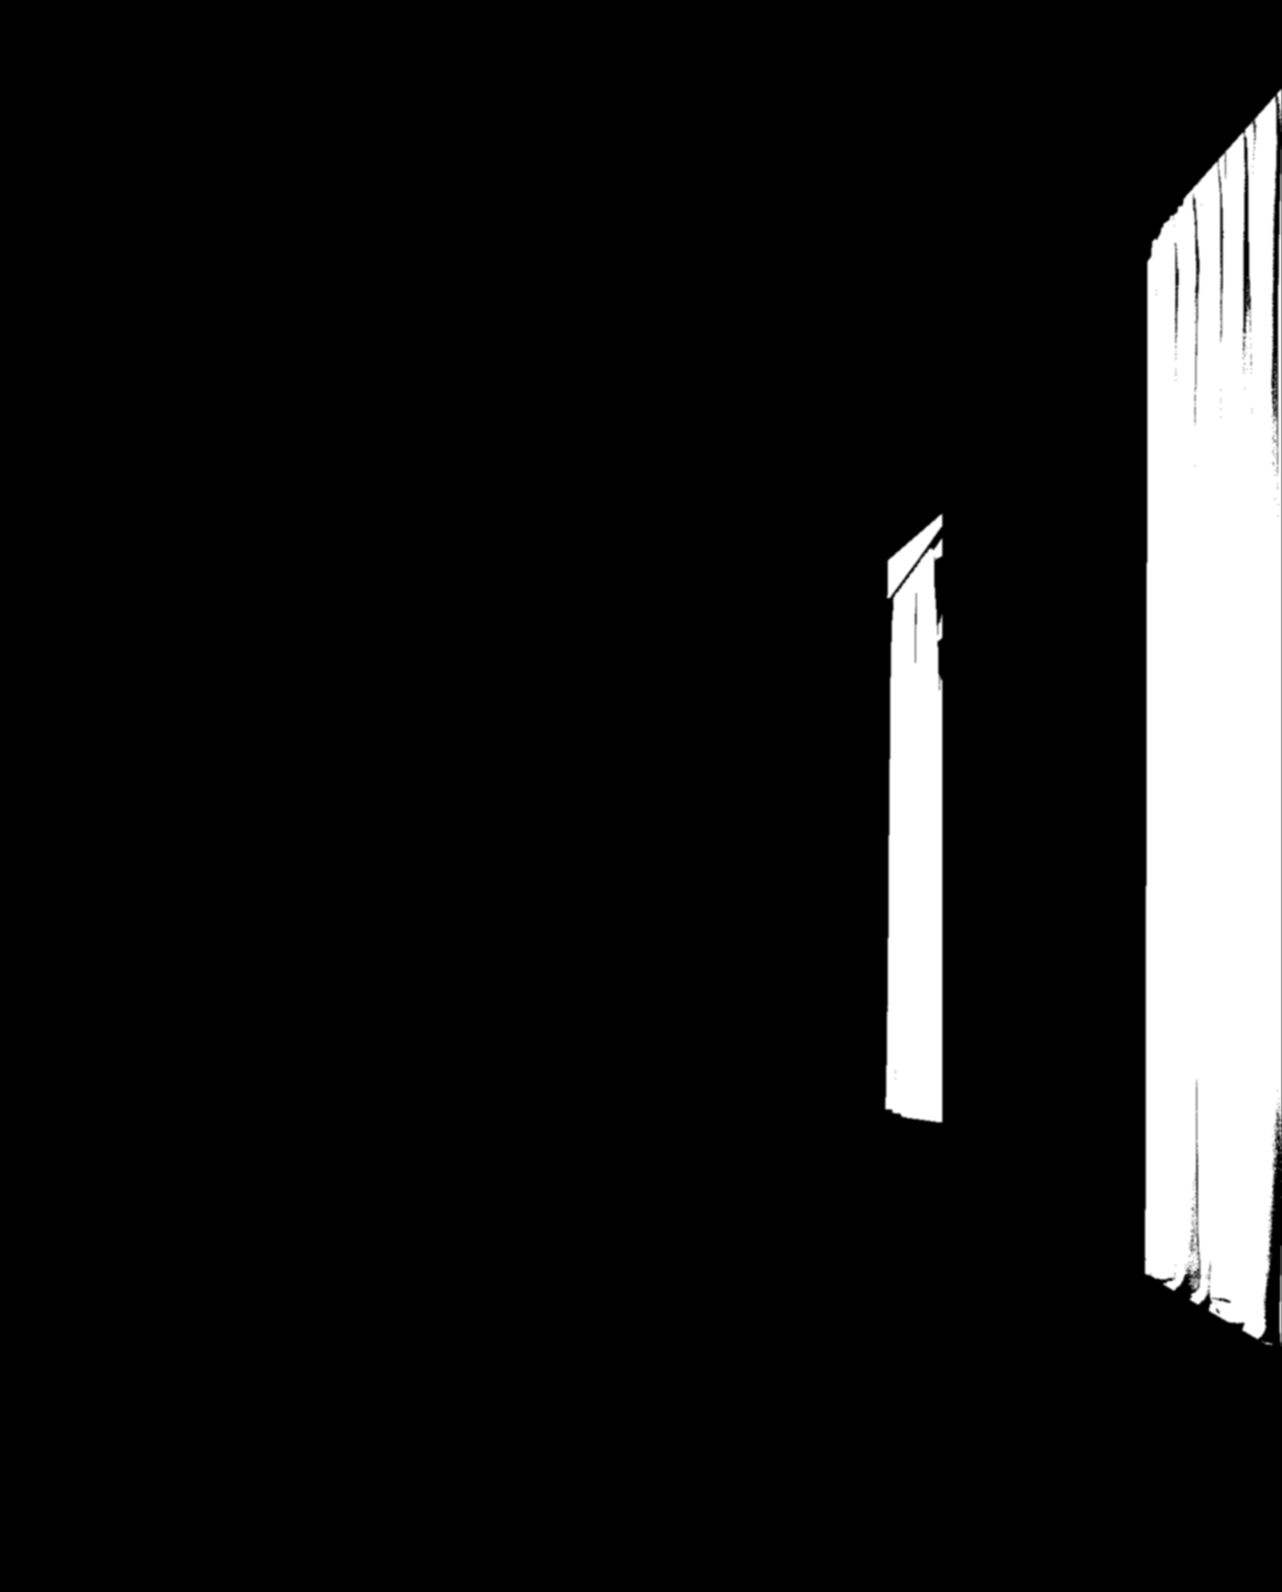
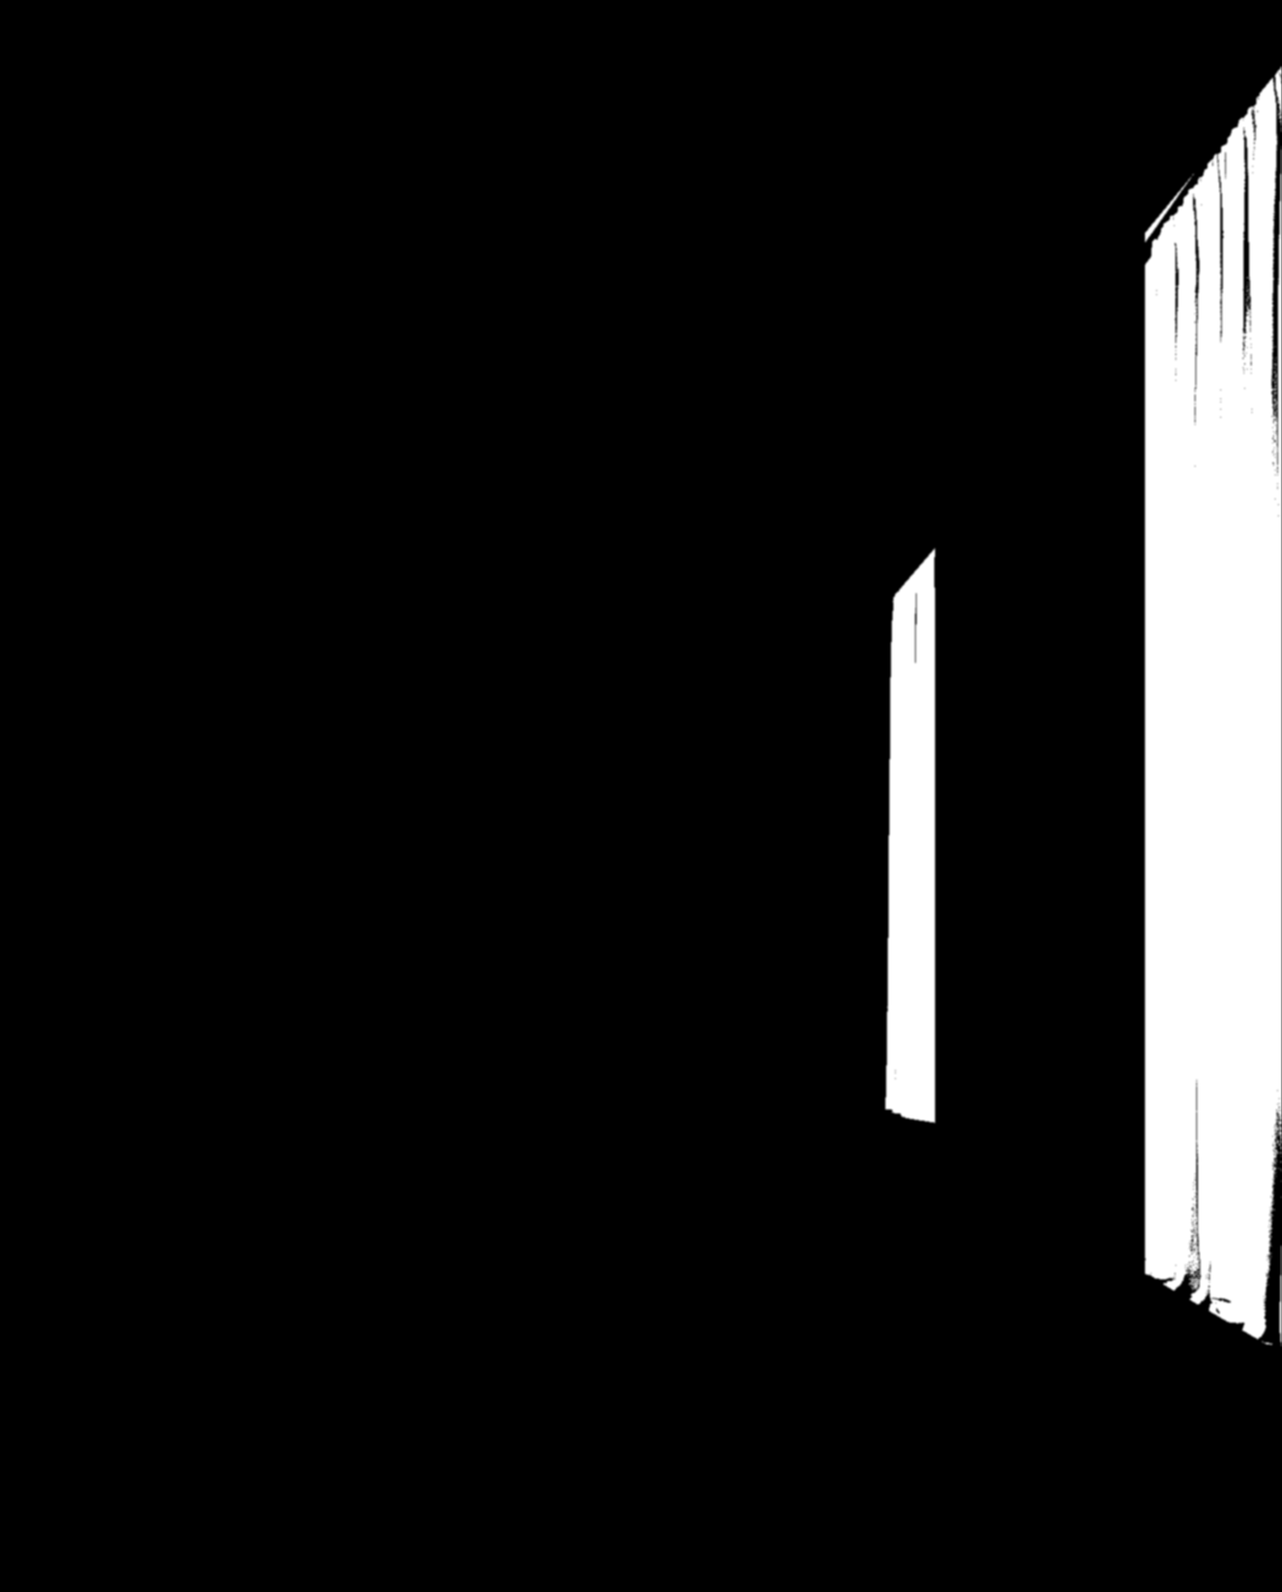
Master bedroom: gardinen följer skenan, inget tyg ovanför skenan

Changed region(s): [[0.875, 0.1249, 0.9062, 0.5619], [0.6875, 0.3122, 0.75, 0.718], [0.9375, 0.0312, 1.0, 0.1249]]

diff --git a/index.html b/index.html
@@ -350,7 +350,7 @@ p.allwin{margin:4px 0 0;font-size:14px}
 <div id="zoom" class="zoom" hidden role="dialog" aria-label="Förstorad bild"><button id="zoom-close" class="btn">Stäng</button><img alt="Förstorad bild"></div>
 
 <script>
-const DATA = {"verona":{"name":"Verona","desc":"Linnets levande yta. Flamskyddad, 295 cm","def":"31","myth":"Ett tyg med linnets lite ojämna, levande yta och ett mjukt fall. Det är gardinen vi föreslår i husens stora rum.","colors":[{"code":"01","name":"Pigeon","img":"img/verona-01.jpg","hex":"#9b948c","lab":[62,1.1,5.2]},{"code":"02","name":"Tornado","img":"img/verona-02.jpg","hex":"#38393e","lab":[24,0.8,-3.2]},{"code":"03","name":"Brass","img":"img/verona-03.jpg","hex":"#af9056","lab":[61,4.6,34.8]},{"code":"04","name":"Chalk","img":"img/verona-04.jpg","hex":"#eae9e7","lab":[92,0.1,1]},{"code":"05","name":"Signet","img":"img/verona-05.jpg","hex":"#c5beb4","lab":[77,0.9,5.6]},{"code":"06","name":"Cinder","img":"img/verona-06.jpg","hex":"#c9c9bf","lab":[81,-1.8,4.9]},{"code":"07","name":"Nimbus","img":"img/verona-07.jpg","hex":"#989896","lab":[63,-0.4,1]},{"code":"08","name":"Dew","img":"img/verona-08.jpg","hex":"#b1b8b1","lab":[74,-3.7,2.6]},{"code":"09","name":"Caspian","img":"img/verona-09.jpg","hex":"#8e9ca5","lab":[64,-3.3,-6.4]},{"code":"10","name":"Harbour","img":"img/verona-10.jpg","hex":"#394a5e","lab":[31,-0.9,-14]},{"code":"11","name":"Raven","img":"img/verona-11.jpg","hex":"#2e3339","lab":[21,-0.7,-4.5]},{"code":"12","name":"Pacific","img":"img/verona-12.jpg","hex":"#3c4c5b","lab":[31,-2.2,-10.9]},{"code":"13","name":"Niagara","img":"img/verona-13.jpg","hex":"#215d6b","lab":[36,-14.5,-13.4]},{"code":"14","name":"Tide","img":"img/verona-14.jpg","hex":"#8c9894","lab":[62,-5,0.7]},{"code":"15","name":"Verdigris","img":"img/verona-15.jpg","hex":"#8a9f96","lab":[64,-9.2,2.1]},{"code":"16","name":"Aquatic","img":"img/verona-16.jpg","hex":"#547576","lab":[47,-11.5,-4.5]},{"code":"17","name":"Patina","img":"img/verona-17.jpg","hex":"#98a693","lab":[67,-9.2,8.6]},{"code":"18","name":"Breeze","img":"img/verona-18.jpg","hex":"#b8b5a2","lab":[74,-2.3,10.1]},{"code":"19","name":"Laurel","img":"img/verona-19.jpg","hex":"#a6a384","lab":[67,-4.1,16.5]},{"code":"20","name":"Mimosa","img":"img/verona-20.jpg","hex":"#d8c68c","lab":[80,-2.1,31.5]},{"code":"21","name":"Jute","img":"img/verona-21.jpg","hex":"#d2bc94","lab":[77,1.6,23.2]},{"code":"22","name":"Alabaster","img":"img/verona-22.jpg","hex":"#d8d4cb","lab":[85,-0.2,4.9]},{"code":"23","name":"Paper","img":"img/verona-23.jpg","hex":"#d1cbbf","lab":[82,0,6.8]},{"code":"25","name":"Fudge","img":"img/verona-25.jpg","hex":"#b59f8b","lab":[67,4.6,13.3]},{"code":"26","name":"Cognac","img":"img/verona-26.jpg","hex":"#965b43","lab":[45,21.9,24.1]},{"code":"27","name":"Anise","img":"img/verona-27.jpg","hex":"#a43f35","lab":[41,41,27.7]},{"code":"29","name":"Mink","img":"img/verona-29.jpg","hex":"#a49183","lab":[61,4.7,10]},{"code":"30","name":"Malt","img":"img/verona-30.jpg","hex":"#a79b91","lab":[65,2.4,7.7]},{"code":"31","name":"Tofu","img":"img/verona-31.jpg","hex":"#d0c6bb","lab":[80,1.6,6.9]},{"code":"32","name":"Driftwood","img":"img/verona-32.jpg","hex":"#bcb3a6","lab":[73,0.9,7.9]},{"code":"33","name":"Chrome","img":"img/verona-33.jpg","hex":"#aaa29e","lab":[67,2.2,2.7]},{"code":"34","name":"Carbon","img":"img/verona-34.jpg","hex":"#52565a","lab":[36,-0.9,-2.5]},{"code":"35","name":"Koala","img":"img/verona-35.jpg","hex":"#7f7774","lab":[51,2.5,2.7]},{"code":"36","name":"Briar","img":"img/verona-36.jpg","hex":"#d8c1bf","lab":[80,7.3,4.2]},{"code":"37","name":"Moorland","img":"img/verona-37.jpg","hex":"#9b8c8f","lab":[60,6.2,0.4]}]},"carina":{"name":"Carina","desc":"Mörkläggande, för sovrummen. 280 cm","def":"02","myth":"Mörklägger helt, utan foder: det är tyget självt som stänger ute ljuset.","colors":[{"code":"01","name":"Camelia","img":"img/carina-01.jpg","hex":"#e0dfd9","lab":[89,-0.4,3.1]},{"code":"02","name":"Parchment","img":"img/carina-02.jpg","hex":"#d1ccb8","lab":[82,-1.6,10.2]},{"code":"03","name":"Cashew","img":"img/carina-03.jpg","hex":"#c9c6b3","lab":[80,-2.3,9.9]},{"code":"04","name":"Driftwood","img":"img/carina-04.jpg","hex":"#a8a38c","lab":[67,-1.8,12.5]},{"code":"05","name":"Silt","img":"img/carina-05.jpg","hex":"#7a7a6d","lab":[51,-2.3,7]},{"code":"06","name":"Pigeon","img":"img/carina-06.jpg","hex":"#c0c0b4","lab":[78,-2.2,6.2]},{"code":"07","name":"Agate","img":"img/carina-07.jpg","hex":"#b1b6af","lab":[74,-3.4,3.1]},{"code":"08","name":"Cinder","img":"img/carina-08.jpg","hex":"#d5d4c9","lab":[85,-1.4,5.4]},{"code":"09","name":"Aluminium","img":"img/carina-09.jpg","hex":"#c3c4be","lab":[79,-1.4,2.8]},{"code":"10","name":"Nickel","img":"img/carina-10.jpg","hex":"#a3a097","lab":[66,-0.4,4.8]},{"code":"11","name":"Alpine","img":"img/carina-11.jpg","hex":"#b3bcad","lab":[75,-5.6,6.6]}]},"laurie":{"name":"Laurie","desc":"Skir innergardin. Flamskyddad, 297 cm","def":"14","myth":"Skir innergardin på en egen skena närmast glaset. Släpper in dagsljuset men håller blickarna ute.","colors":[{"code":"13","name":"White","img":"img/laurie-13.jpg","hex":"#eeecf7","lab":[94,2.6,-5]},{"code":"09","name":"Aluminium","img":"img/laurie-09.jpg","hex":"#c8c4c4","lab":[79,1.4,0.5]},{"code":"15","name":"River","img":"img/laurie-15.jpg","hex":"#bec3c7","lab":[78,-1,-2.6]},{"code":"14","name":"Chalk","img":"img/laurie-14.jpg","hex":"#ece6e8","lab":[92,2.4,-0.2]},{"code":"06","name":"Haze","img":"img/laurie-06.jpg","hex":"#86918f","lab":[59,-4.3,0.1]},{"code":"12","name":"Hydro","img":"img/laurie-12.jpg","hex":"#637972","lab":[49,-9.5,1.2]},{"code":"11","name":"Ink","img":"img/laurie-11.jpg","hex":"#5c646b","lab":[42,-1.5,-5.2]},{"code":"10","name":"Fjord","img":"img/laurie-10.jpg","hex":"#99a8b3","lab":[68,-2.6,-7.7]},{"code":"05","name":"Droplet","img":"img/laurie-05.jpg","hex":"#b9bec5","lab":[77,-0.1,-4.3]},{"code":"01","name":"Silver","img":"img/laurie-01.jpg","hex":"#e2dcde","lab":[88,2.4,-0.3]},{"code":"02","name":"Pigeon","img":"img/laurie-02.jpg","hex":"#c3bdbc","lab":[77,1.7,1.2]},{"code":"17","name":"Jasmine","img":"img/laurie-17.jpg","hex":"#e4ddd9","lab":[89,1.8,2.8]},{"code":"18","name":"Vellum","img":"img/laurie-18.jpg","hex":"#d2c8bc","lab":[81,1.7,7.2]},{"code":"19","name":"Marble","img":"img/laurie-19.jpg","hex":"#dccdc2","lab":[83,3.4,7.3]},{"code":"22","name":"Briar","img":"img/laurie-22.jpg","hex":"#dec9c3","lab":[83,6.3,5.5]},{"code":"20","name":"Malt","img":"img/laurie-20.jpg","hex":"#d0bcb3","lab":[78,5.6,7.1]},{"code":"23","name":"Tuscan","img":"img/laurie-23.jpg","hex":"#96655f","lab":[48,19.1,11.8]},{"code":"24","name":"Cognac","img":"img/laurie-24.jpg","hex":"#a1705a","lab":[52,16.9,19.8]},{"code":"21","name":"Smoke","img":"img/laurie-21.jpg","hex":"#695f5d","lab":[41,3.4,2.9]},{"code":"16","name":"Ebony","img":"img/laurie-16.jpg","hex":"#504e4f","lab":[33,0.8,-0.1]},{"code":"03","name":"Brume","img":"img/laurie-03.jpg","hex":"#86817c","lab":[54,0.8,3.5]},{"code":"07","name":"Ivy","img":"img/laurie-07.jpg","hex":"#908c82","lab":[58,-0.5,5.9]},{"code":"08","name":"Jasper","img":"img/laurie-08.jpg","hex":"#656253","lab":[41,-1.5,8.9]},{"code":"04","name":"Brass","img":"img/laurie-04.jpg","hex":"#c2a674","lab":[69,3.3,29.6]}]},"bands":[{"code":"9100","name":"Flaxen","lab":[55,10.4,28.4],"img":"img/hera-9100-v.jpg","imgH":"img/hera-9100-h.jpg"},{"code":"9300","name":"Nectare","lab":[58,22.4,24.6],"img":"img/hera-9300-v.jpg","imgH":"img/hera-9300-h.jpg"},{"code":"9400","name":"Orchid","lab":[52,20.4,4.5],"img":"img/hera-9400-v.jpg","imgH":"img/hera-9400-h.jpg"},{"code":"9600","name":"Sapphire","lab":[37,-5.5,-18.3],"img":"img/hera-9600-v.jpg","imgH":"img/hera-9600-h.jpg"},{"code":"9900","name":"Anise","lab":[21,0.7,-0.5],"img":"img/hera-9900-v.jpg","imgH":"img/hera-9900-h.jpg"},{"code":"9910","name":"Shadow","lab":[39,0.2,3.3],"img":"img/hera-9910-v.jpg","imgH":"img/hera-9910-h.jpg"}],"band":{"img":"img/hera-9900-v.jpg","imgH":"img/hera-9900-h.jpg"},"scenes":{"vardagsrum":{"w":1600,"h":893,"lref":188,"rail":[[0,0.245,0.045,0.262,0.006,0.006],[0.045,0.262,0.425,0.262,0.006,0.006],[0.54,0.262,0.86,0.262,0.006,0.006],[0.86,0.262,1,0.14,0.006,0.009]],"sheer":true,"band":[[0.12,0.27,0.12,0.84,-1],[0.33,0.27,0.33,0.83,1],[0.61,0.27,0.61,0.83,-1],[0.785,0.27,0.785,0.835,1],[0.905,0.245,0.905,0.85,-1]],"bw":0.008,"SP":[[[0.12,0.27],[0.33,0.27],[0.33,0.83],[0.12,0.83]],[[0.61,0.27],[0.785,0.27],[0.785,0.83],[0.61,0.83]],[[0.905,0.245],[1,0.2],[1,0.86],[0.905,0.85]]],"lref2":186,"slref":216},"passage":{"w":1600,"h":2143,"lref":193,"rail":[[0.28,0.122,0.722,0.122,0.005,0.005]],"sheer":true,"band":[[0.4,0.13,0.4,0.785,-1],[0.595,0.13,0.595,0.785,1]],"bw":0.013,"SP":[[[0.4,0.13],[0.595,0.13],[0.595,0.785],[0.4,0.785]]],"lref2":189,"slref":231},"mv-vardagsrum":{"w":1600,"h":1195,"lref":157,"rail":[[0.435,0.208,0.93,0.152,0.006,0.008]],"sheer":true,"band":[[0.5,0.21,0.5,0.645,-1],[0.815,0.175,0.815,0.69,1]],"bw":0.01,"SP":[[[0.5,0.207],[0.815,0.172],[0.815,0.685],[0.5,0.645]]],"lref2":152,"slref":237},"mv-sovrum":{"w":1600,"h":1195,"lref":187,"rail":[[0.24,0.202,0.877,0.202,0.006,0.006]],"sheer":true,"band":[[0.43,0.21,0.43,0.74,-1],[0.765,0.21,0.765,0.74,1]],"bw":0.011,"SP":[[[0.43,0.21],[0.765,0.21],[0.765,0.74],[0.43,0.74]]],"lref2":184,"slref":229},"sov3":{"w":1600,"h":1195,"lref":162,"rail":[[0.255,0.158,0.763,0.158,0.006,0.006]],"sheer":false,"band":[[0.395,0.165,0.395,0.77,-1],[0.612,0.165,0.612,0.77,1]],"bw":0.012,"SP":[[[0.395,0.165],[0.612,0.165],[0.612,0.775],[0.395,0.775]]]},"sov1":{"w":1600,"h":1195,"lref":164,"rail":[[0.255,0.195,0.765,0.195,0.006,0.006]],"sheer":false,"band":[[0.385,0.2,0.385,0.765,-1],[0.6,0.2,0.6,0.765,1]],"bw":0.012,"SP":[[[0.385,0.203],[0.6,0.203],[0.6,0.77],[0.385,0.77]]]},"sov2":{"w":1600,"h":1195,"lref":166,"rail":[[0.25,0.175,0.742,0.175,0.006,0.006]],"sheer":false,"band":[[0.383,0.18,0.383,0.77,-1],[0.608,0.18,0.608,0.77,1]],"bw":0.012,"SP":[[[0.383,0.18],[0.608,0.18],[0.608,0.775],[0.383,0.775]]]},"master":{"w":1600,"h":1986,"lref":160,"rail":[[0.697,0.345,1,0.04,0.005,0.008]],"sheer":false,"band":[[0.735,0.335,0.735,0.7,-1],[0.895,0.172,0.893,0.795,1]],"bw":0.012,"SP":[[[0.735,0.322],[0.895,0.15],[0.893,0.8],[0.735,0.705]]]},"matplats":{"w":1600,"h":2385,"lref":165,"rail":[[0,0.252,1,0.252,0.005,0.005]],"sheer":true,"band":[[0.215,0.26,0.215,0.76,-1],[0.83,0.26,0.83,0.76,1]],"bw":0.016,"SP":[[[0.215,0.26],[0.83,0.26],[0.83,0.755],[0.215,0.755]]],"lref2":163,"slref":215},"allrum":{"w":1600,"h":2143,"lref":165,"rail":[[0.37,0.127,1,0.032,0.006,0.007]],"sheer":true,"band":[[0.61,0.1,0.61,0.8,-1]],"bw":0.014,"SP":[[[0.61,0.097],[1,0.036],[1,0.85],[0.61,0.81]]],"lref2":164,"slref":222},"sovrum":{"w":1600,"h":1195,"lref":185,"rail":[[0.715,0.185,0.84,0,0.008,0.012]],"sheer":false,"band":[[0.763,0.145,0.765,0.77,-1],[0.892,0.02,0.905,0.96,1]],"bw":0.011,"SP":[[[0.765,0.12],[0.89,0],[0.89,0.96],[0.765,0.775]]]}}};
+const DATA = {"verona":{"name":"Verona","desc":"Linnets levande yta. Flamskyddad, 295 cm","def":"31","myth":"Ett tyg med linnets lite ojämna, levande yta och ett mjukt fall. Det är gardinen vi föreslår i husens stora rum.","colors":[{"code":"01","name":"Pigeon","img":"img/verona-01.jpg","hex":"#9b948c","lab":[62,1.1,5.2]},{"code":"02","name":"Tornado","img":"img/verona-02.jpg","hex":"#38393e","lab":[24,0.8,-3.2]},{"code":"03","name":"Brass","img":"img/verona-03.jpg","hex":"#af9056","lab":[61,4.6,34.8]},{"code":"04","name":"Chalk","img":"img/verona-04.jpg","hex":"#eae9e7","lab":[92,0.1,1]},{"code":"05","name":"Signet","img":"img/verona-05.jpg","hex":"#c5beb4","lab":[77,0.9,5.6]},{"code":"06","name":"Cinder","img":"img/verona-06.jpg","hex":"#c9c9bf","lab":[81,-1.8,4.9]},{"code":"07","name":"Nimbus","img":"img/verona-07.jpg","hex":"#989896","lab":[63,-0.4,1]},{"code":"08","name":"Dew","img":"img/verona-08.jpg","hex":"#b1b8b1","lab":[74,-3.7,2.6]},{"code":"09","name":"Caspian","img":"img/verona-09.jpg","hex":"#8e9ca5","lab":[64,-3.3,-6.4]},{"code":"10","name":"Harbour","img":"img/verona-10.jpg","hex":"#394a5e","lab":[31,-0.9,-14]},{"code":"11","name":"Raven","img":"img/verona-11.jpg","hex":"#2e3339","lab":[21,-0.7,-4.5]},{"code":"12","name":"Pacific","img":"img/verona-12.jpg","hex":"#3c4c5b","lab":[31,-2.2,-10.9]},{"code":"13","name":"Niagara","img":"img/verona-13.jpg","hex":"#215d6b","lab":[36,-14.5,-13.4]},{"code":"14","name":"Tide","img":"img/verona-14.jpg","hex":"#8c9894","lab":[62,-5,0.7]},{"code":"15","name":"Verdigris","img":"img/verona-15.jpg","hex":"#8a9f96","lab":[64,-9.2,2.1]},{"code":"16","name":"Aquatic","img":"img/verona-16.jpg","hex":"#547576","lab":[47,-11.5,-4.5]},{"code":"17","name":"Patina","img":"img/verona-17.jpg","hex":"#98a693","lab":[67,-9.2,8.6]},{"code":"18","name":"Breeze","img":"img/verona-18.jpg","hex":"#b8b5a2","lab":[74,-2.3,10.1]},{"code":"19","name":"Laurel","img":"img/verona-19.jpg","hex":"#a6a384","lab":[67,-4.1,16.5]},{"code":"20","name":"Mimosa","img":"img/verona-20.jpg","hex":"#d8c68c","lab":[80,-2.1,31.5]},{"code":"21","name":"Jute","img":"img/verona-21.jpg","hex":"#d2bc94","lab":[77,1.6,23.2]},{"code":"22","name":"Alabaster","img":"img/verona-22.jpg","hex":"#d8d4cb","lab":[85,-0.2,4.9]},{"code":"23","name":"Paper","img":"img/verona-23.jpg","hex":"#d1cbbf","lab":[82,0,6.8]},{"code":"25","name":"Fudge","img":"img/verona-25.jpg","hex":"#b59f8b","lab":[67,4.6,13.3]},{"code":"26","name":"Cognac","img":"img/verona-26.jpg","hex":"#965b43","lab":[45,21.9,24.1]},{"code":"27","name":"Anise","img":"img/verona-27.jpg","hex":"#a43f35","lab":[41,41,27.7]},{"code":"29","name":"Mink","img":"img/verona-29.jpg","hex":"#a49183","lab":[61,4.7,10]},{"code":"30","name":"Malt","img":"img/verona-30.jpg","hex":"#a79b91","lab":[65,2.4,7.7]},{"code":"31","name":"Tofu","img":"img/verona-31.jpg","hex":"#d0c6bb","lab":[80,1.6,6.9]},{"code":"32","name":"Driftwood","img":"img/verona-32.jpg","hex":"#bcb3a6","lab":[73,0.9,7.9]},{"code":"33","name":"Chrome","img":"img/verona-33.jpg","hex":"#aaa29e","lab":[67,2.2,2.7]},{"code":"34","name":"Carbon","img":"img/verona-34.jpg","hex":"#52565a","lab":[36,-0.9,-2.5]},{"code":"35","name":"Koala","img":"img/verona-35.jpg","hex":"#7f7774","lab":[51,2.5,2.7]},{"code":"36","name":"Briar","img":"img/verona-36.jpg","hex":"#d8c1bf","lab":[80,7.3,4.2]},{"code":"37","name":"Moorland","img":"img/verona-37.jpg","hex":"#9b8c8f","lab":[60,6.2,0.4]}]},"carina":{"name":"Carina","desc":"Mörkläggande, för sovrummen. 280 cm","def":"02","myth":"Mörklägger helt, utan foder: det är tyget självt som stänger ute ljuset.","colors":[{"code":"01","name":"Camelia","img":"img/carina-01.jpg","hex":"#e0dfd9","lab":[89,-0.4,3.1]},{"code":"02","name":"Parchment","img":"img/carina-02.jpg","hex":"#d1ccb8","lab":[82,-1.6,10.2]},{"code":"03","name":"Cashew","img":"img/carina-03.jpg","hex":"#c9c6b3","lab":[80,-2.3,9.9]},{"code":"04","name":"Driftwood","img":"img/carina-04.jpg","hex":"#a8a38c","lab":[67,-1.8,12.5]},{"code":"05","name":"Silt","img":"img/carina-05.jpg","hex":"#7a7a6d","lab":[51,-2.3,7]},{"code":"06","name":"Pigeon","img":"img/carina-06.jpg","hex":"#c0c0b4","lab":[78,-2.2,6.2]},{"code":"07","name":"Agate","img":"img/carina-07.jpg","hex":"#b1b6af","lab":[74,-3.4,3.1]},{"code":"08","name":"Cinder","img":"img/carina-08.jpg","hex":"#d5d4c9","lab":[85,-1.4,5.4]},{"code":"09","name":"Aluminium","img":"img/carina-09.jpg","hex":"#c3c4be","lab":[79,-1.4,2.8]},{"code":"10","name":"Nickel","img":"img/carina-10.jpg","hex":"#a3a097","lab":[66,-0.4,4.8]},{"code":"11","name":"Alpine","img":"img/carina-11.jpg","hex":"#b3bcad","lab":[75,-5.6,6.6]}]},"laurie":{"name":"Laurie","desc":"Skir innergardin. Flamskyddad, 297 cm","def":"14","myth":"Skir innergardin på en egen skena närmast glaset. Släpper in dagsljuset men håller blickarna ute.","colors":[{"code":"13","name":"White","img":"img/laurie-13.jpg","hex":"#eeecf7","lab":[94,2.6,-5]},{"code":"09","name":"Aluminium","img":"img/laurie-09.jpg","hex":"#c8c4c4","lab":[79,1.4,0.5]},{"code":"15","name":"River","img":"img/laurie-15.jpg","hex":"#bec3c7","lab":[78,-1,-2.6]},{"code":"14","name":"Chalk","img":"img/laurie-14.jpg","hex":"#ece6e8","lab":[92,2.4,-0.2]},{"code":"06","name":"Haze","img":"img/laurie-06.jpg","hex":"#86918f","lab":[59,-4.3,0.1]},{"code":"12","name":"Hydro","img":"img/laurie-12.jpg","hex":"#637972","lab":[49,-9.5,1.2]},{"code":"11","name":"Ink","img":"img/laurie-11.jpg","hex":"#5c646b","lab":[42,-1.5,-5.2]},{"code":"10","name":"Fjord","img":"img/laurie-10.jpg","hex":"#99a8b3","lab":[68,-2.6,-7.7]},{"code":"05","name":"Droplet","img":"img/laurie-05.jpg","hex":"#b9bec5","lab":[77,-0.1,-4.3]},{"code":"01","name":"Silver","img":"img/laurie-01.jpg","hex":"#e2dcde","lab":[88,2.4,-0.3]},{"code":"02","name":"Pigeon","img":"img/laurie-02.jpg","hex":"#c3bdbc","lab":[77,1.7,1.2]},{"code":"17","name":"Jasmine","img":"img/laurie-17.jpg","hex":"#e4ddd9","lab":[89,1.8,2.8]},{"code":"18","name":"Vellum","img":"img/laurie-18.jpg","hex":"#d2c8bc","lab":[81,1.7,7.2]},{"code":"19","name":"Marble","img":"img/laurie-19.jpg","hex":"#dccdc2","lab":[83,3.4,7.3]},{"code":"22","name":"Briar","img":"img/laurie-22.jpg","hex":"#dec9c3","lab":[83,6.3,5.5]},{"code":"20","name":"Malt","img":"img/laurie-20.jpg","hex":"#d0bcb3","lab":[78,5.6,7.1]},{"code":"23","name":"Tuscan","img":"img/laurie-23.jpg","hex":"#96655f","lab":[48,19.1,11.8]},{"code":"24","name":"Cognac","img":"img/laurie-24.jpg","hex":"#a1705a","lab":[52,16.9,19.8]},{"code":"21","name":"Smoke","img":"img/laurie-21.jpg","hex":"#695f5d","lab":[41,3.4,2.9]},{"code":"16","name":"Ebony","img":"img/laurie-16.jpg","hex":"#504e4f","lab":[33,0.8,-0.1]},{"code":"03","name":"Brume","img":"img/laurie-03.jpg","hex":"#86817c","lab":[54,0.8,3.5]},{"code":"07","name":"Ivy","img":"img/laurie-07.jpg","hex":"#908c82","lab":[58,-0.5,5.9]},{"code":"08","name":"Jasper","img":"img/laurie-08.jpg","hex":"#656253","lab":[41,-1.5,8.9]},{"code":"04","name":"Brass","img":"img/laurie-04.jpg","hex":"#c2a674","lab":[69,3.3,29.6]}]},"bands":[{"code":"9100","name":"Flaxen","lab":[55,10.4,28.4],"img":"img/hera-9100-v.jpg","imgH":"img/hera-9100-h.jpg"},{"code":"9300","name":"Nectare","lab":[58,22.4,24.6],"img":"img/hera-9300-v.jpg","imgH":"img/hera-9300-h.jpg"},{"code":"9400","name":"Orchid","lab":[52,20.4,4.5],"img":"img/hera-9400-v.jpg","imgH":"img/hera-9400-h.jpg"},{"code":"9600","name":"Sapphire","lab":[37,-5.5,-18.3],"img":"img/hera-9600-v.jpg","imgH":"img/hera-9600-h.jpg"},{"code":"9900","name":"Anise","lab":[21,0.7,-0.5],"img":"img/hera-9900-v.jpg","imgH":"img/hera-9900-h.jpg"},{"code":"9910","name":"Shadow","lab":[39,0.2,3.3],"img":"img/hera-9910-v.jpg","imgH":"img/hera-9910-h.jpg"}],"band":{"img":"img/hera-9900-v.jpg","imgH":"img/hera-9900-h.jpg"},"scenes":{"vardagsrum":{"w":1600,"h":893,"lref":188,"rail":[[0,0.245,0.045,0.262,0.006,0.006],[0.045,0.262,0.425,0.262,0.006,0.006],[0.54,0.262,0.86,0.262,0.006,0.006],[0.86,0.262,1,0.14,0.006,0.009]],"sheer":true,"band":[[0.12,0.27,0.12,0.84,-1],[0.33,0.27,0.33,0.83,1],[0.61,0.27,0.61,0.83,-1],[0.785,0.27,0.785,0.835,1],[0.905,0.245,0.905,0.85,-1]],"bw":0.008,"SP":[[[0.12,0.27],[0.33,0.27],[0.33,0.83],[0.12,0.83]],[[0.61,0.27],[0.785,0.27],[0.785,0.83],[0.61,0.83]],[[0.905,0.245],[1,0.2],[1,0.86],[0.905,0.85]]],"lref2":186,"slref":216},"passage":{"w":1600,"h":2143,"lref":193,"rail":[[0.28,0.122,0.722,0.122,0.005,0.005]],"sheer":true,"band":[[0.4,0.13,0.4,0.785,-1],[0.595,0.13,0.595,0.785,1]],"bw":0.013,"SP":[[[0.4,0.13],[0.595,0.13],[0.595,0.785],[0.4,0.785]]],"lref2":189,"slref":231},"mv-vardagsrum":{"w":1600,"h":1195,"lref":157,"rail":[[0.435,0.208,0.93,0.152,0.006,0.008]],"sheer":true,"band":[[0.5,0.21,0.5,0.645,-1],[0.815,0.175,0.815,0.69,1]],"bw":0.01,"SP":[[[0.5,0.207],[0.815,0.172],[0.815,0.685],[0.5,0.645]]],"lref2":152,"slref":237},"mv-sovrum":{"w":1600,"h":1195,"lref":187,"rail":[[0.24,0.202,0.877,0.202,0.006,0.006]],"sheer":true,"band":[[0.43,0.21,0.43,0.74,-1],[0.765,0.21,0.765,0.74,1]],"bw":0.011,"SP":[[[0.43,0.21],[0.765,0.21],[0.765,0.74],[0.43,0.74]]],"lref2":184,"slref":229},"sov3":{"w":1600,"h":1195,"lref":162,"rail":[[0.255,0.158,0.763,0.158,0.006,0.006]],"sheer":false,"band":[[0.395,0.165,0.395,0.77,-1],[0.612,0.165,0.612,0.77,1]],"bw":0.012,"SP":[[[0.395,0.165],[0.612,0.165],[0.612,0.775],[0.395,0.775]]]},"sov1":{"w":1600,"h":1195,"lref":164,"rail":[[0.255,0.195,0.765,0.195,0.006,0.006]],"sheer":false,"band":[[0.385,0.2,0.385,0.765,-1],[0.6,0.2,0.6,0.765,1]],"bw":0.012,"SP":[[[0.385,0.203],[0.6,0.203],[0.6,0.77],[0.385,0.77]]]},"sov2":{"w":1600,"h":1195,"lref":166,"rail":[[0.25,0.175,0.742,0.175,0.006,0.006]],"sheer":false,"band":[[0.383,0.18,0.383,0.77,-1],[0.608,0.18,0.608,0.77,1]],"bw":0.012,"SP":[[[0.383,0.18],[0.608,0.18],[0.608,0.775],[0.383,0.775]]]},"master":{"w":1600,"h":1986,"lref":160,"rail":[[0.697,0.345,1,0.04,0.005,0.008]],"sheer":false,"band":[[0.729,0.352,0.729,0.7,-1],[0.894,0.16,0.893,0.795,1]],"bw":0.012,"SP":[[[0.729,0.34],[0.893,0.15],[0.893,0.8],[0.729,0.705]]]},"matplats":{"w":1600,"h":2385,"lref":165,"rail":[[0,0.252,1,0.252,0.005,0.005]],"sheer":true,"band":[[0.215,0.26,0.215,0.76,-1],[0.83,0.26,0.83,0.76,1]],"bw":0.016,"SP":[[[0.215,0.26],[0.83,0.26],[0.83,0.755],[0.215,0.755]]],"lref2":163,"slref":215},"allrum":{"w":1600,"h":2143,"lref":165,"rail":[[0.37,0.127,1,0.032,0.006,0.007]],"sheer":true,"band":[[0.61,0.1,0.61,0.8,-1]],"bw":0.014,"SP":[[[0.61,0.097],[1,0.036],[1,0.85],[0.61,0.81]]],"lref2":164,"slref":222},"sovrum":{"w":1600,"h":1195,"lref":185,"rail":[[0.715,0.185,0.84,0,0.008,0.012]],"sheer":false,"band":[[0.763,0.145,0.765,0.77,-1],[0.892,0.02,0.905,0.96,1]],"bw":0.011,"SP":[[[0.765,0.12],[0.89,0],[0.89,0.96],[0.765,0.775]]]}}};
 const BAND_PRICE = 3500; // ordinarie
 const DISC=.20; // Vikingshöjd-rabatt, gäller bara tyget
 const dp=n=>Math.round(n*(1-DISC)/100)*100;
